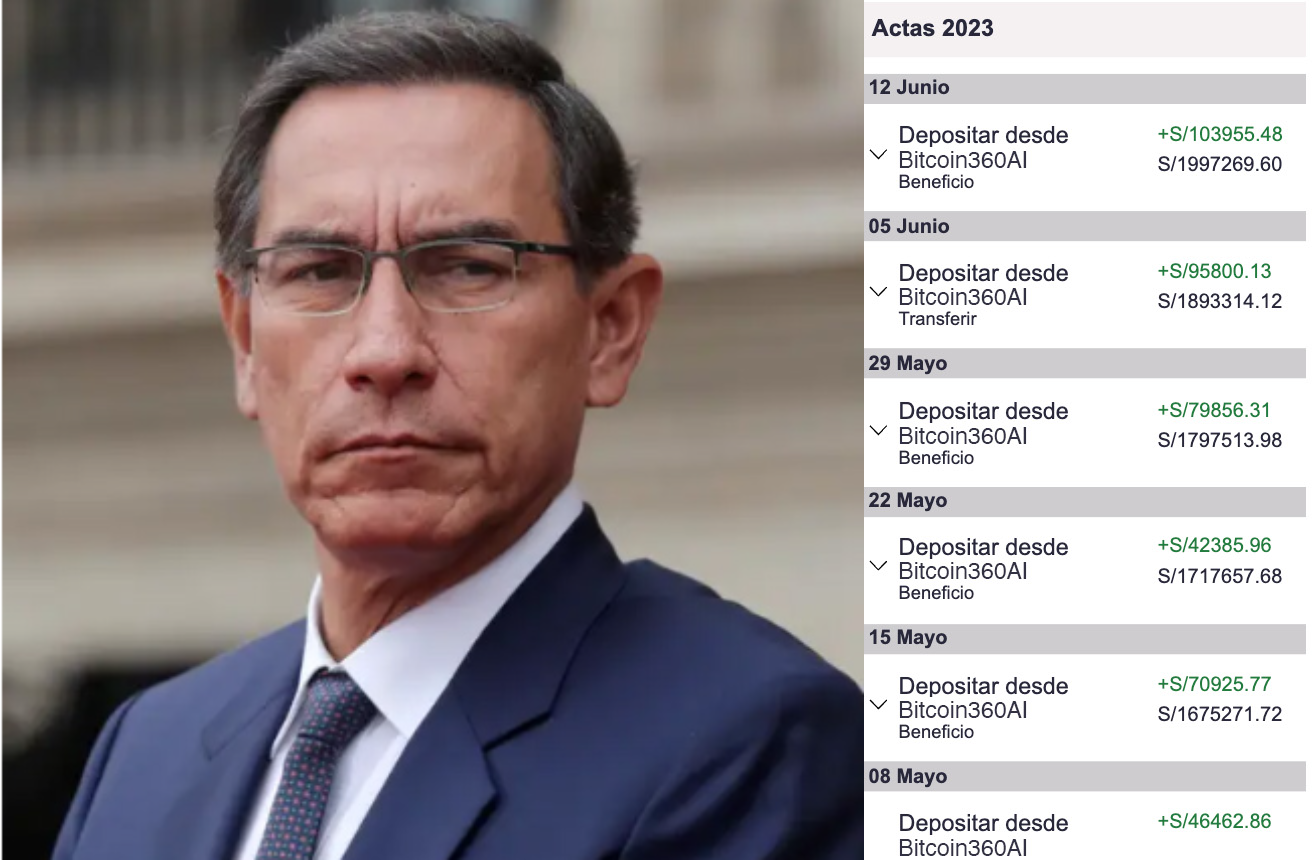
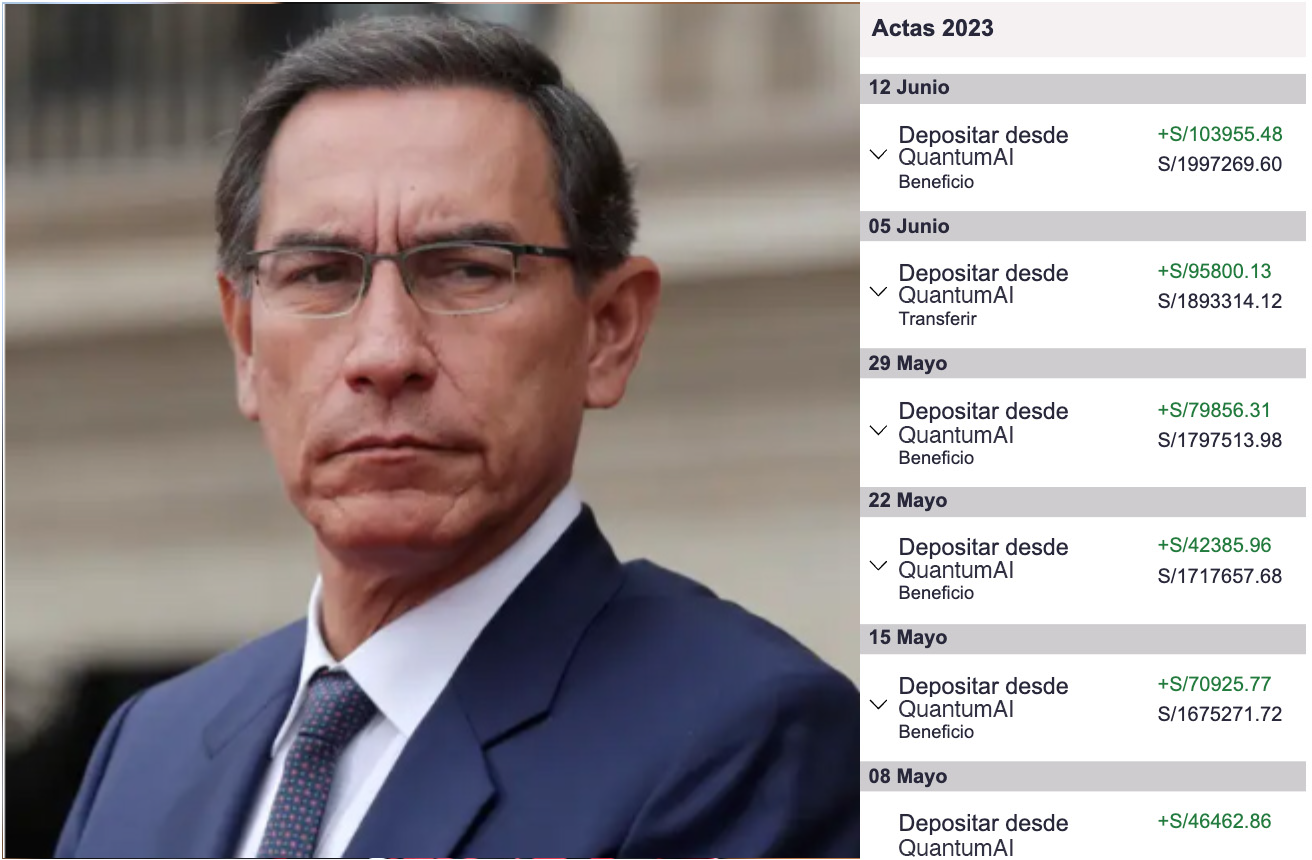
FEAT: Change images

diff --git a/src/config.js b/src/config.js
@@ -4,7 +4,7 @@ import PRIME from "./assets/images/modal/PRIME.png";
 
 export const LINK = "https://givemes.com/outgoing";
 export const CHARACTER = "Martin Vizcarra";
-export const OFFER_NAME = "BITCOIN 360 AI";
+export const OFFER_NAME = "Quantum AI";
 export const MODAL = CODE;
 export const SUBTITLE_FIRST_LINE ="Ya los latinoamericanos están amasando millones de USD desde sus casas gracias a";
 export const SUBTITLE_SECOND_LINE = `esta "laguna", pero ¿es legal?`;
